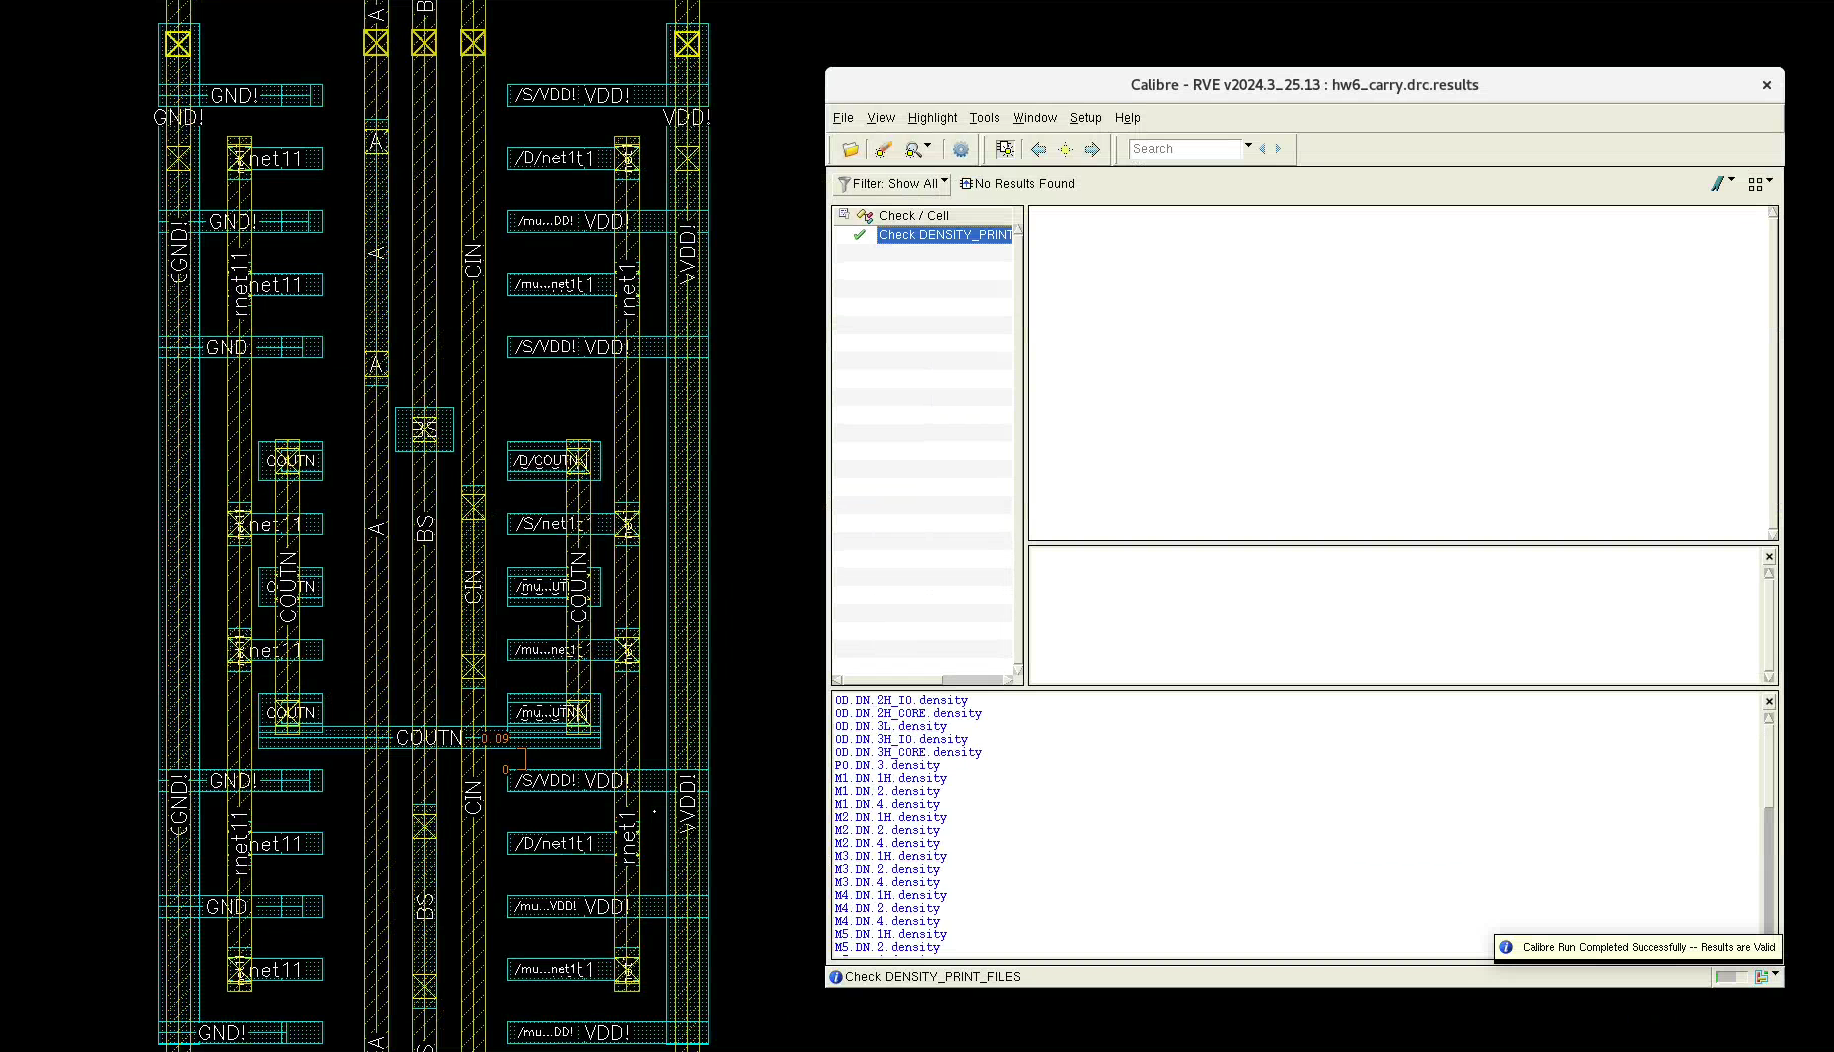
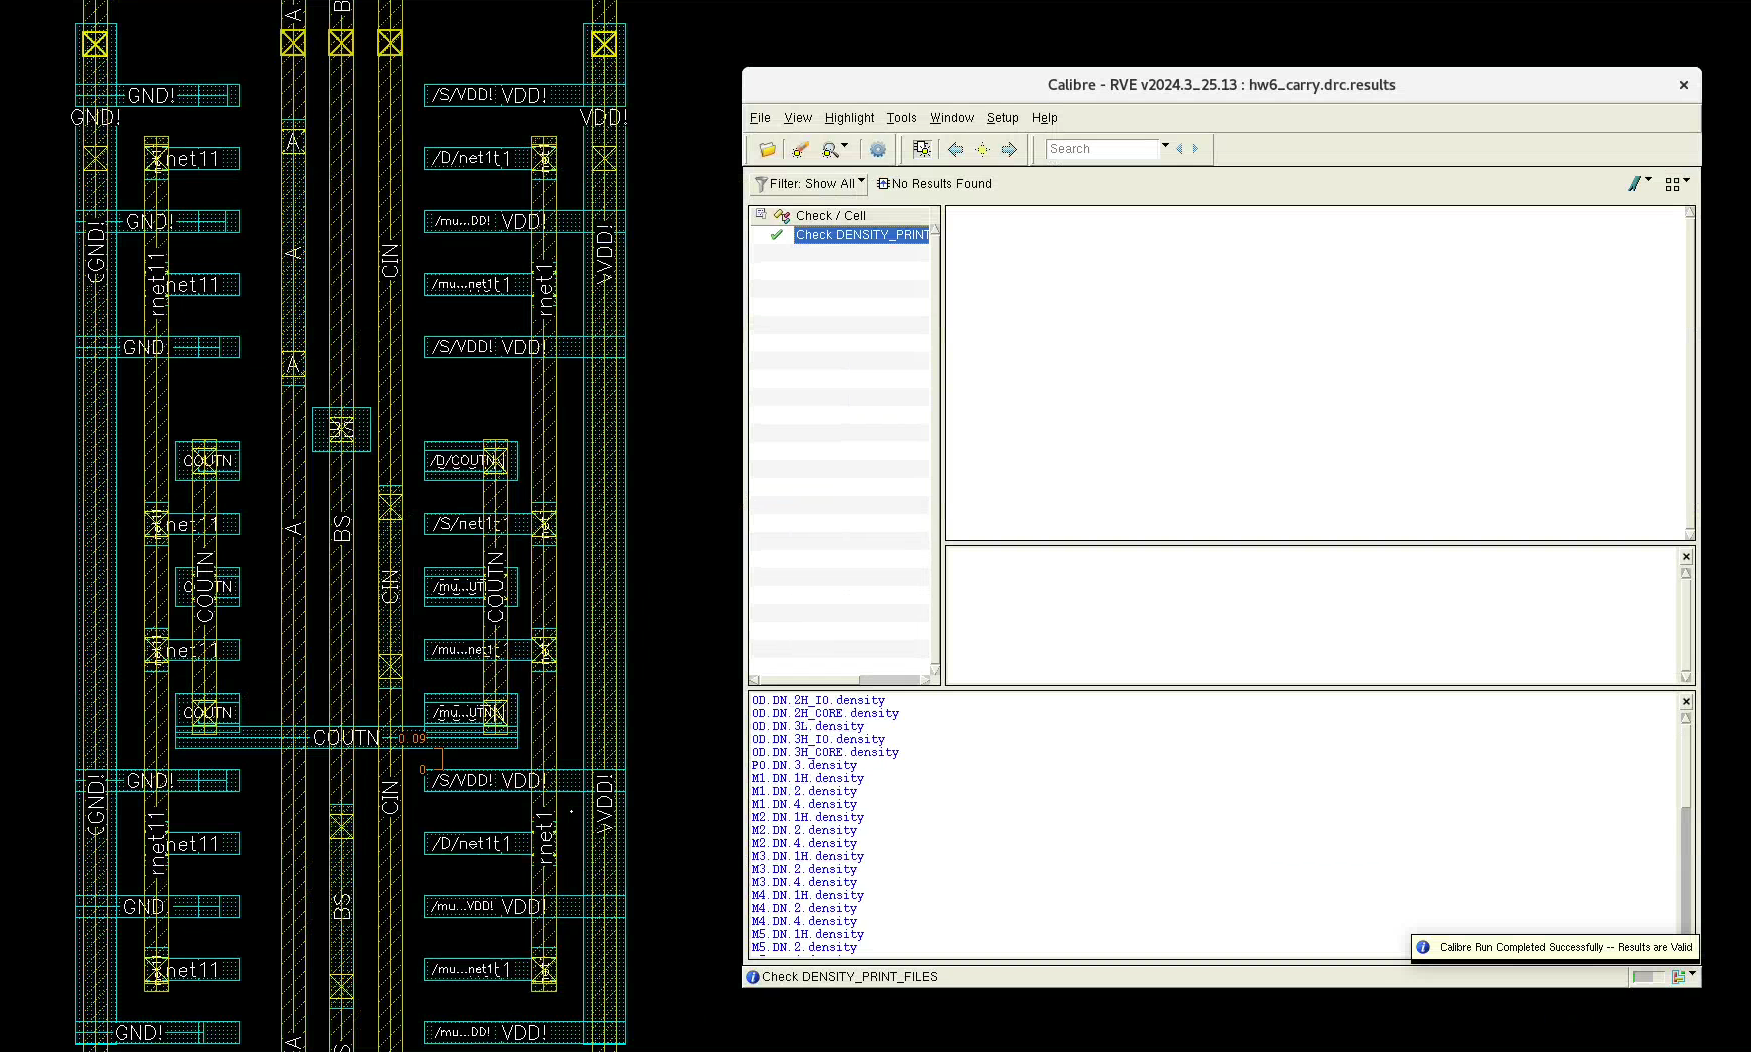
face list

Changed region(s): [[0.0308, 0.0, 0.8018, 1.0], [0.8018, 0.1521, 0.9869, 0.943], [0.6476, 0.1217, 0.7093, 0.1521]]

diff --git a/_articles/vlsi/sram.md b/_articles/vlsi/sram.md
@@ -1,5 +1,5 @@
 ---
-title: "4321 SRAM"
+title: "4321 VLSI SRAM"
 permalink: /articles/vlsi/sram
 author: "Ming Gong, Charlotte Chen"
 date: 2025-12-31
@@ -211,6 +211,9 @@ We used a vertical Poly layout for this part. You will see the pros and cons in 
 
 
 ## Column MUX
+> To accurately pass down the bitlines, you may need PMOS too!
+{: .notice--warning}
+
 Four NMOS devices steer either column into the R/W circuitry.
 
 We initially attempted a single-row diffusion-shared layout and missed by a fraction of a micron :( The final solution uses gate sharing instead.

diff --git a/_articles/vlsi/adder.md b/_articles/vlsi/adder.md
@@ -1,5 +1,5 @@
 ---
-title: "4321 Adder and Shifter"
+title: "4321 VLSI Adder and Shifter"
 permalink: /articles/vlsi/adder
 author: "Ming Gong, Charlotte Chen"
 date: 2025-1-20
@@ -297,7 +297,7 @@ We can closely align the PO, M1, and M2 layers
 ## Subtraction
 You can implement subtraction in two ways
 - Static XOR gate
-- MUX (?what type of MUX)  
+- MUX (what type of MUX?)  
 
 
 > **Hindsight:** We chose the XOR implementation, but a MUX-based select may be the cleaner choice.

diff --git a/_articles/vlsi/overall.md b/_articles/vlsi/overall.md
@@ -1,5 +1,5 @@
 ---
-title: "4321 PLA, Data, Control, and Overall"
+title: "4321 VLSI PLA, Data, Control, and Overall"
 permalink: /articles/vlsi/overall
 author: "Ming Gong, Charlotte Chen, William Wang"
 date: 2025-12-29

diff --git a/_articles/vlsi/inverter.md b/_articles/vlsi/inverter.md
@@ -1,5 +1,5 @@
 ---
-title: "4321 Inverter"
+title: "4321 VLSI Inverter"
 permalink: /articles/vlsi/inverter
 date: 2025-12-24
 ---
